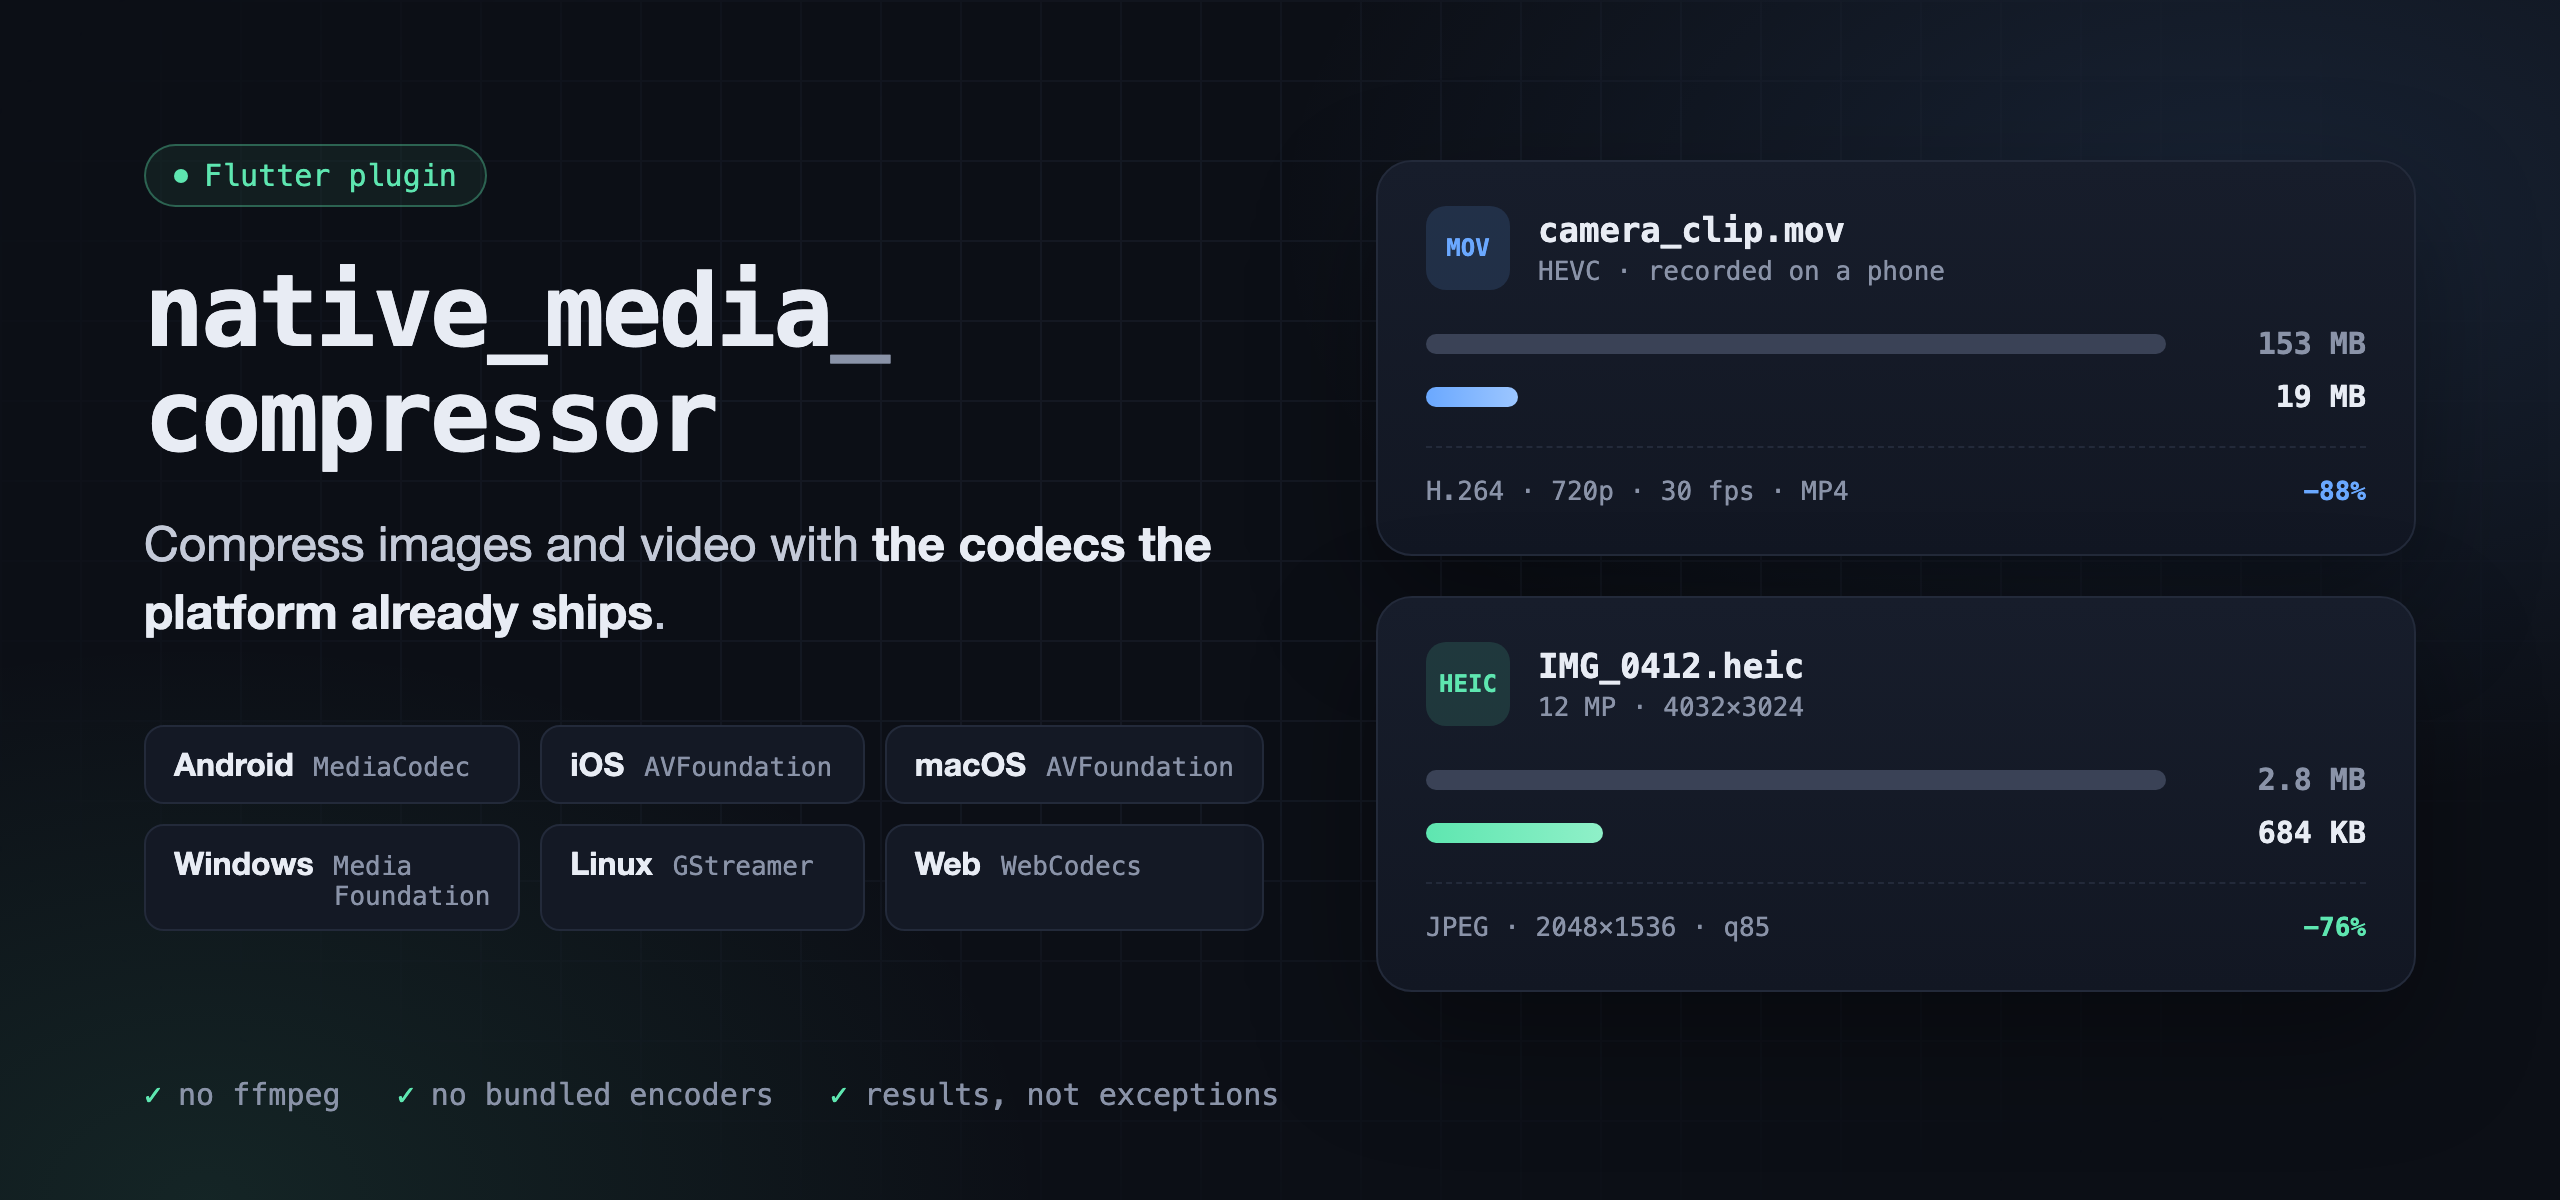
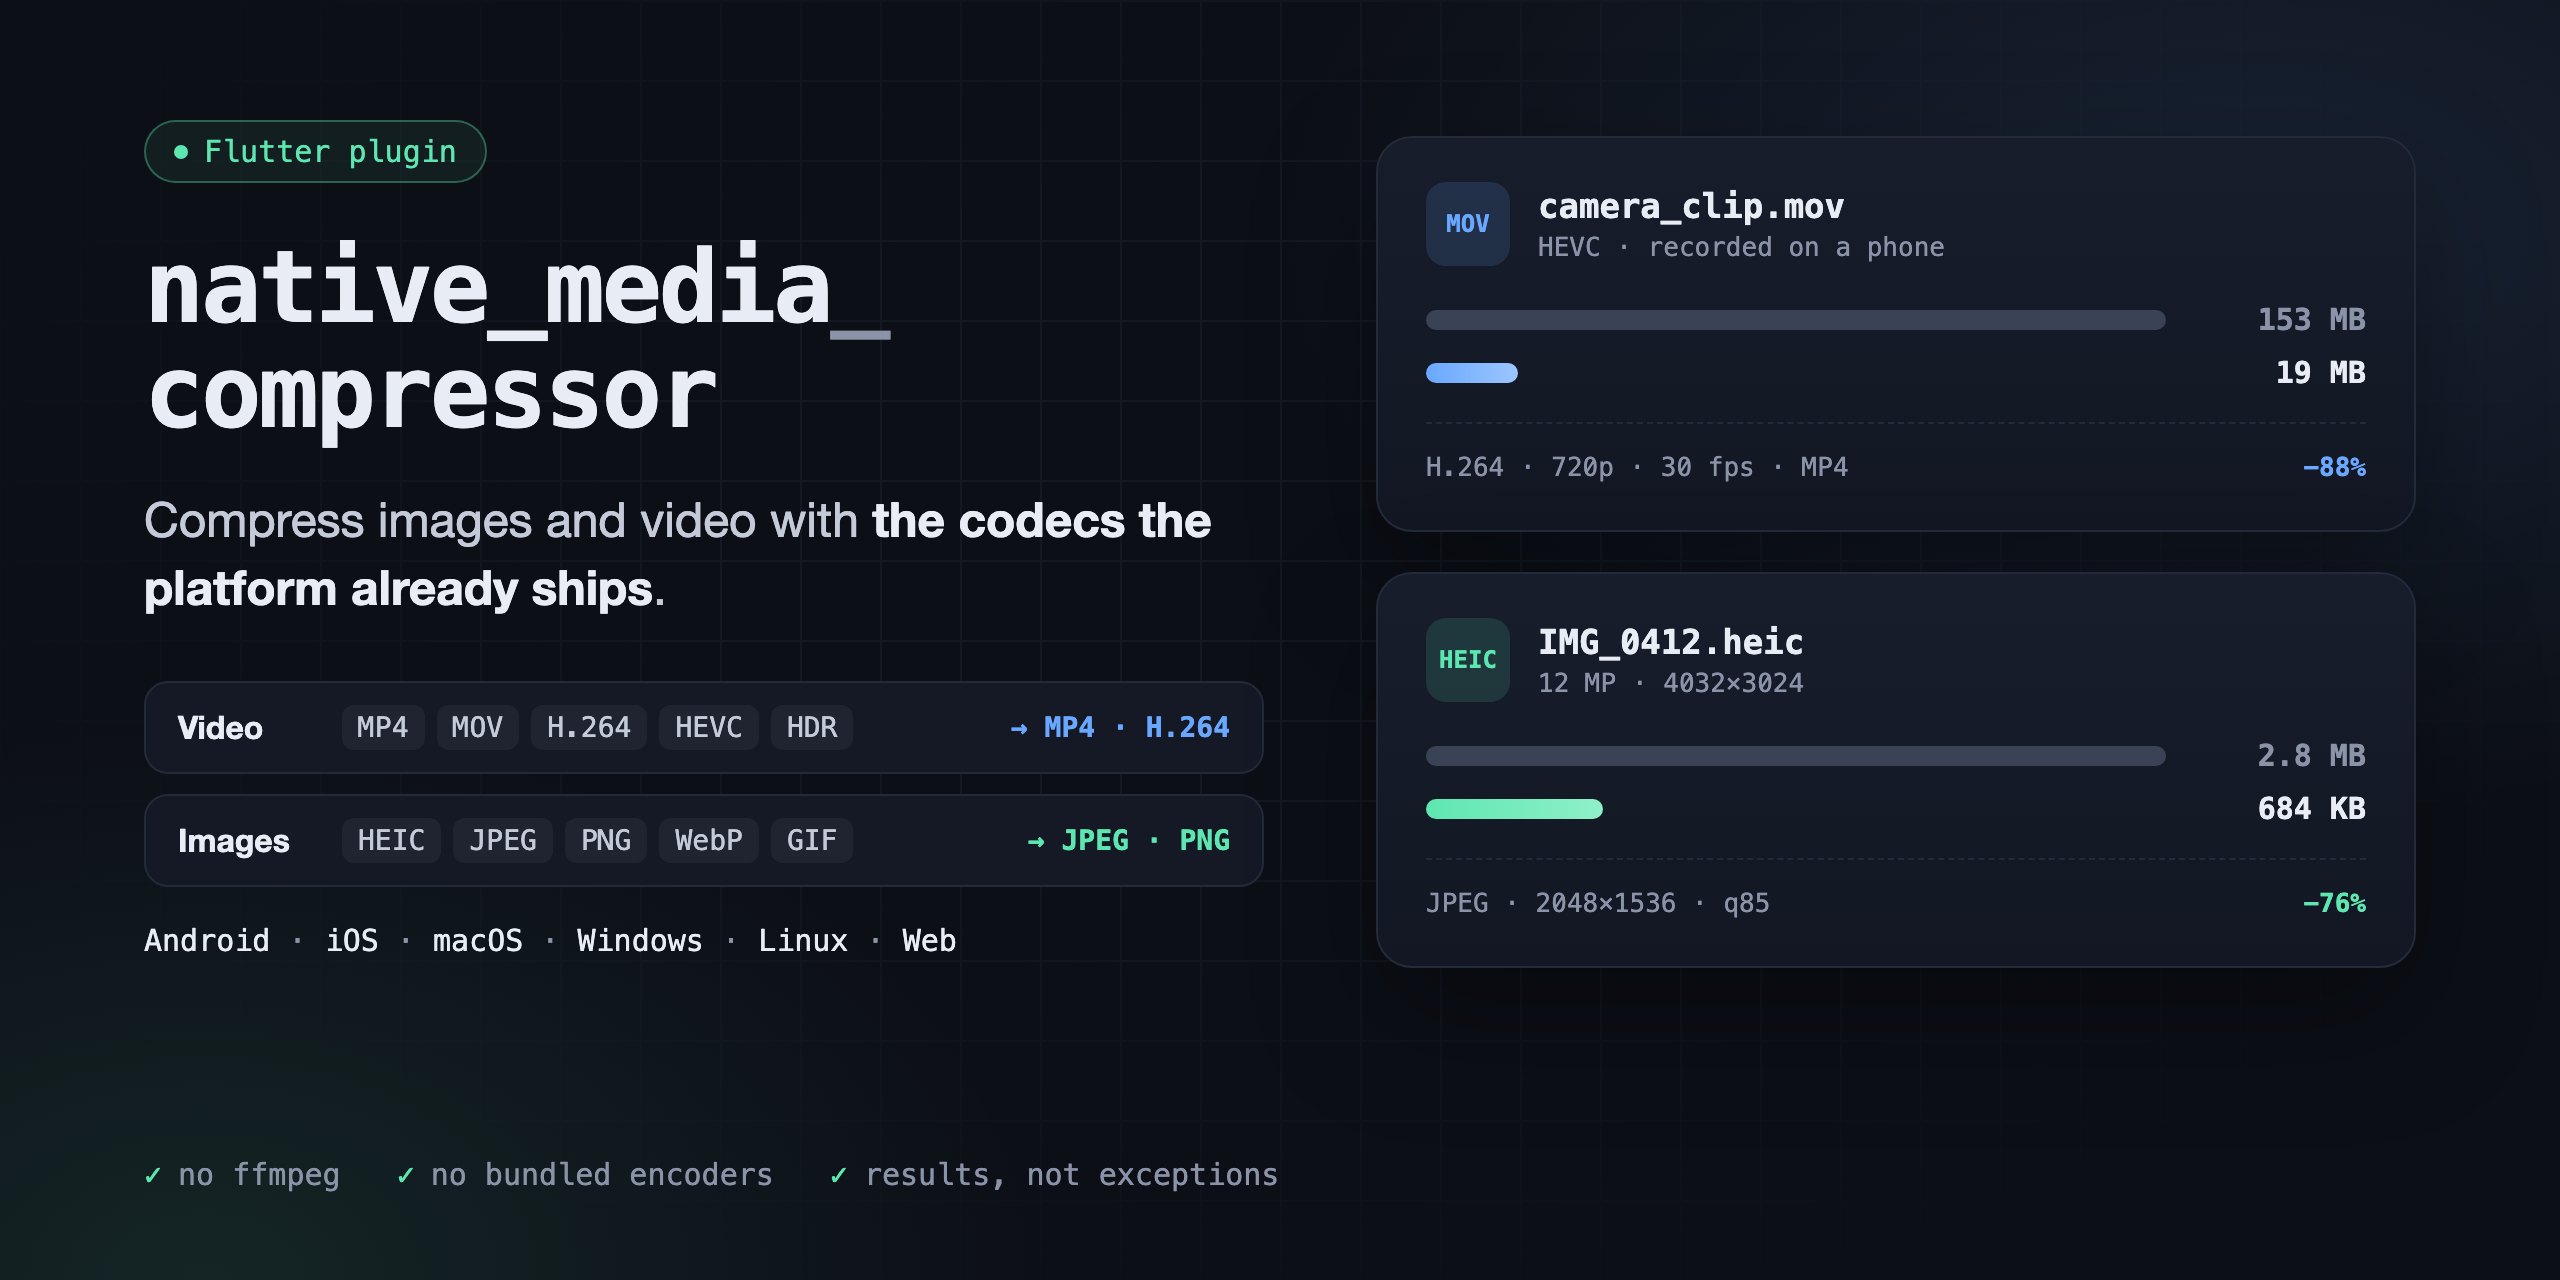
📝 [docs]: list supported formats per platform
The banner shows the input and output formats instead of system API names, and the readme lists which video and image formats each platform reads.

diff --git a/tool/banner/banner.html b/tool/banner/banner.html
@@ -17,7 +17,7 @@
     --sans: -apple-system, "SF Pro Display", "Helvetica Neue", Arial, sans-serif;
   }
   * { box-sizing: border-box; margin: 0; padding: 0; }
-  html, body { width: 1280px; height: 600px; background: var(--bg); overflow: hidden; }
+  html, body { width: 1280px; height: 640px; background: var(--bg); overflow: hidden; }
   body {
     font-family: var(--sans);
     color: var(--text);
@@ -42,7 +42,7 @@
     display: grid;
     grid-template-columns: 1fr 520px;
     gap: 56px;
-    padding: 72px 72px 0;
+    padding: 60px 72px 0;
     height: 100%;
   }
   .badge {
@@ -68,22 +68,25 @@
     max-width: 560px;
   }
   .tagline b { color: var(--text); font-weight: 600; }
-  .platforms {
-    margin-top: 40px;
-    display: grid;
-    grid-template-columns: repeat(3, 1fr);
-    max-width: 610px;
-    gap: 10px 10px;
-  }
-  .chip {
-    display: flex; align-items: baseline; gap: 10px;
+  .formats { margin-top: 30px; display: grid; gap: 10px; max-width: 640px; }
+  .frow {
+    display: grid; grid-template-columns: 70px 1fr auto; align-items: center; gap: 12px;
     background: var(--panel);
     border: 1px solid var(--line);
-    border-radius: 10px;
-    padding: 9px 14px;
-    font-size: 16px; font-weight: 600;
+    border-radius: 12px;
+    padding: 11px 16px;
   }
-  .chip small { font: 400 13px var(--mono); color: var(--muted); }
+  .kind { font-size: 16px; font-weight: 600; }
+  .tags { display: flex; flex-wrap: wrap; gap: 6px; }
+  .tags span {
+    font: 500 14px var(--mono); color: #c4cad8;
+    background: rgba(255, 255, 255, 0.05);
+    border-radius: 6px; padding: 3px 8px;
+  }
+  .out { font: 600 14px var(--mono); color: var(--accent); white-space: nowrap; }
+  .frow.v .out { color: var(--accent-2); }
+  .platforms { margin-top: 18px; font: 500 15px var(--mono); color: var(--muted); }
+  .platforms b { color: var(--text); font-weight: 500; }
 
   .cards { display: flex; flex-direction: column; gap: 20px; padding-top: 8px; }
   .card {
@@ -132,14 +135,19 @@
       <div class="badge"><i></i>Flutter plugin</div>
       <h1>native_media<span>_</span><br>compressor</h1>
       <p class="tagline">Compress images and video with <b>the codecs the platform already ships</b>.</p>
-      <div class="platforms">
-        <div class="chip">Android <small>MediaCodec</small></div>
-        <div class="chip">iOS <small>AVFoundation</small></div>
-        <div class="chip">macOS <small>AVFoundation</small></div>
-        <div class="chip">Windows <small>Media Foundation</small></div>
-        <div class="chip">Linux <small>GStreamer</small></div>
-        <div class="chip">Web <small>WebCodecs</small></div>
+      <div class="formats">
+        <div class="frow v">
+          <div class="kind">Video</div>
+          <div class="tags"><span>MP4</span><span>MOV</span><span>H.264</span><span>HEVC</span><span>HDR</span></div>
+          <div class="out">→ MP4 · H.264</div>
+        </div>
+        <div class="frow">
+          <div class="kind">Images</div>
+          <div class="tags"><span>HEIC</span><span>JPEG</span><span>PNG</span><span>WebP</span><span>GIF</span></div>
+          <div class="out">→ JPEG · PNG</div>
+        </div>
       </div>
+      <div class="platforms"><b>Android</b> · <b>iOS</b> · <b>macOS</b> · <b>Windows</b> · <b>Linux</b> · <b>Web</b></div>
     </div>
     <div class="cards">
       <div class="card v">

diff --git a/README.md b/README.md
@@ -27,6 +27,34 @@ Compress images and videos in Flutter with the codecs the platform already ships
 
 What each platform needs and where it says `unsupported` is listed under [Platform notes](#platform-notes).
 
+## Supported formats
+
+Output is always the same: video becomes H.264 in MP4 with AAC audio, images become JPEG or PNG. What can be read depends on the decoders the system has, so the lists below are what the platform ships out of the box. CI runs MP4 and MOV with H.264 and HEVC, HDR, HEIC, WebP, GIF, animated PNG and rotated JPEG on every platform, and requires HEVC, HEIC and WebP to work on Android, iOS and macOS.
+
+### Video input
+
+| Platform | Containers | Video codecs | Audio |
+|---|---|---|---|
+| Android | MP4, MOV, 3GP, MKV, WebM | H.264, HEVC, VP8, VP9; AV1 where the device has a decoder (most Android 10+ devices) | AAC is copied |
+| iOS, macOS | MP4, MOV, M4V | H.264, HEVC, and other codecs AVFoundation decodes | AAC is copied |
+| Windows | MP4, MOV, M4V, 3GP | H.264 built in; HEVC, VP9 and AV1 with the matching Microsoft Store extensions | Re-encoded to AAC, one audio track |
+| Linux | Whatever the installed GStreamer plugins open | Whatever the installed GStreamer decoders handle; `gstreamer1.0-libav` covers H.264 and HEVC | AAC is copied |
+| Web | MP4, MOV, not fragmented | Whatever the browser's WebCodecs decodes: H.264 everywhere, HEVC, VP9 and AV1 in most current browsers | AAC is copied |
+
+Where audio is copied, any other audio codec makes the call `unsupported` unless `includeAudio` is `false`.
+
+### Image input
+
+| Platform | Formats |
+|---|---|
+| Android | JPEG, PNG, WebP, GIF, BMP; HEIC and HEIF on Android 9+; AVIF on Android 12+ |
+| iOS, macOS | JPEG, PNG, HEIC, GIF, TIFF, BMP; WebP on iOS 14+ and macOS 11+; AVIF on iOS 16+ and macOS 13+ |
+| Windows | JPEG, PNG, GIF, BMP, TIFF built in; WebP, HEIC and AVIF with the matching Microsoft Store extensions |
+| Linux | JPEG, PNG, GIF, BMP, TIFF through gdk-pixbuf; WebP, HEIC and AVIF with the matching gdk-pixbuf loaders |
+| Web | JPEG, PNG, GIF, WebP, BMP, AVIF; HEIC in Safari only |
+
+Animated GIF, WebP and PNG keep their first frame.
+
 ## Installation
 
 ```sh
